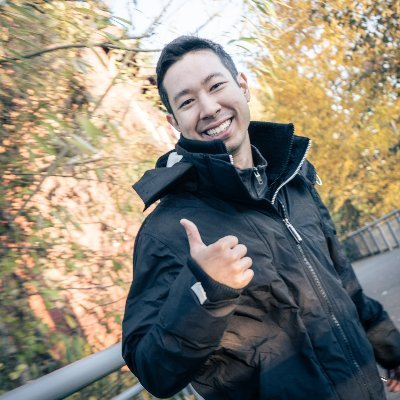
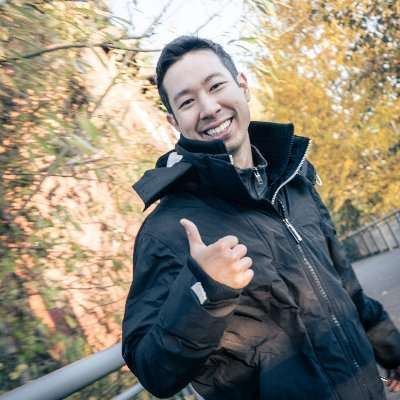
add team bios functionality

diff --git a/app/company/team.tsx b/app/company/team.tsx
@@ -1,40 +1,107 @@
+"use client";
+
+import { useState } from "react";
 import { Section } from "@/components/ui/section";
 import SunbeamBackground from "@/components/ui/sunbeam/sunbeam-bg";
-import Image from "next/image";
+import { TeamMember, TeamMemberType } from "./team-member";
 
-function TeamMember({
-  name,
-  role,
-  image,
-  link,
-  description,
-}: {
-  name: string;
-  role: string;
-  image: string;
-  link: string;
-  description?: string;
-}) {
-  return (
-    <a
-      href={link}
-      className="flex flex-col items-center text-center p-6 bg-primary-foreground/20 backdrop-blur-sm rounded-xs shadow-sm hover:shadow-primary/60 transition-shadow btn-effect-shine"
-    >
-      <Image
-        src={image}
-        alt={name}
-        height={100}
-        width={100}
-        className="w-36 h-36 rounded-full mb-4"
-      />
-      <h2 className="text-2xl font-bold text-primary">{name}</h2>
-      <p>{role}</p>
-      <p className="text-gray-500 text-sm">{description ?? ""}</p>
-    </a>
-  );
-}
+const TeamMembers: TeamMemberType[] = [
+  {
+    name: "Sheldon Hunt",
+    role: "CEO",
+    image: "/team/sheldon.jpg",
+    link: "https://x.com/_MrHunt_",
+    description: "Ex-Head of Cardano Ecosystem",
+    bio: `Sheldon Hunt is the Founder and CEO of Sundial Protocol, former Head of Ecosystem at Emurgo and Canadian diplomat. He brings years of experience in blockchain infrastructure and ecosystem growth, having worked across UTXO-based chains and led initiatives that combine decentralised finance with cross-chain innovation.`,
+  },
+
+  {
+    name: "Michael Yagi",
+    role: "Developer & Ecosystem",
+    image: "/team/michael.jpg",
+    link: "https://x.com/gubguub",
+    description: "Founder of Ikigai Technologies",
+    bio: `Michael Yagi is a technology entrepreneur and creative director focused on bridging
+      advanced infrastructure with engaging user experiences. Drawing on his experience as one
+      of Tableau’s fastest-promoted engineers, he combines deep technical expertise with
+      strategic product vision and team leadership.`,
+  },
+
+  {
+    name: "Yoram Benzvi",
+    role: "Business Development & Partnerships",
+    image: "/team/yoram.png",
+    link: "https://x.com/yorambenzvi",
+    bio: `Yoram Ben Zvi is an entrepreneur with experience in product management and development, particularly in bridging traditional businesses with cutting-edge technologies like blockchain and AI. He is based in the Geneva Metropolitan Area.`,
+  },
+
+  {
+    name: "Sam Delaney",
+    role: "Core Tech Lead",
+    image: "/team/sam.jpg",
+    link: "https://x.com/sde_laney",
+    description: "Founder of Grabbit",
+    bio: `Sam is a design leader and blockchain engineer with years of experience at the forefront of
+      UTxO protocol design and development. He has been integral to projects such as
+      Hydra-Auction, Grabbit, & Ascent Rivals, and authored the CIP-102 standard and early ZK
+      verifiers. Sam has degrees in Computer Science and Linguistics from Trinity Western
+      University.`,
+  },
+
+  {
+    name: "Phil Disarro",
+    role: "Senior Developer",
+    image: "/team/phil.png",
+    link: "https://x.com/phil_uplc",
+    description: "Founder of Anastasia Labs",
+    bio: `Phil Disarro is the Founder and CEO of Anastasia Labs, a research and development firm focused on secure and scalable blockchain infrastructure. He has deep expertise in compiler design, programming language theory, and smart contract security, and has contributed extensively to the Cardano ecosystem.`,
+  },
+
+  {
+    name: "Vic Genin",
+    role: "Protocol Lead",
+    image: "/team/vic.jpeg",
+    link: "https://x.com/DataScientistAI",
+    bio: `Vic Genin is a blockchain architect and data technology expert with experience building scalable, secure systems. He has held senior technical roles at Binance, Cere Network, and GameStop, leading projects in cross-chain interoperability and decentralized infrastructure. Vic combines deep technical expertise with a track record of delivering complex blockchain and gaming projects.`,
+  },
+
+  {
+    name: "Appold Team",
+    role: "Operations & Project Management",
+    image: "/team/appold-logo.svg",
+    link: "https://www.linkedin.com/company/appold/",
+    bio: `Appold is a specialist technology and advisory company focused on the blockchain industry, which incorporates digital
+      assets, blockchain technology, decentralised finance (DeFi), and asset tokenisation. Appold provides end-to-end
+      advisory solutions on digital transformation, blockchain integration, audit, market screening, analysis, and risk
+      management.`,
+  },
+];
 
 export default function Team() {
+  const [members, setMembers] = useState<TeamMemberType[] | null>(TeamMembers);
+
+  // this was supposed to swap the selected member with the clicked member.
+  // not sure why it doesn't but it's kinda accidentally better - keeps things more or less sorted with minimal movement
+  const handleMemberSelect = (member: TeamMemberType) => {
+    const memberIndex = members
+      ? members.findIndex((m) => m.name === member.name)
+      : -1;
+
+    setMembers((prevMembers) => {
+      if (!prevMembers || memberIndex === -1 || memberIndex === 0) {
+        return prevMembers;
+      }
+
+      let newMembers = [...prevMembers];
+      newMembers[memberIndex] = newMembers[0];
+      newMembers[0] = member;
+
+      return newMembers;
+    });
+  };
+
+  let selectedMember: TeamMemberType | null = members ? members[0] : null;
+
   return (
     <SunbeamBackground
       beams={[
@@ -55,71 +122,70 @@ export default function Team() {
         },
       ]}
     >
-      <Section className="py-24">
+      <Section className="py-24 items-center text-center space-y-6">
+        <h1 className="text-4xl font-bold tracking-tighter sm:text-5xl md:text-6xl">
+          Core Team
+        </h1>
         <div className="grid grid-cols-1 lg:grid-cols-3 gap-6">
-          <div className="flex flex-col px-12 lg:pt-24 items-center text-center space-y-4">
-            <h1 className="text-5xl font-bold tracking-tighter sm:text-6xl md:text-7xl">
-              Our Team
-            </h1>
-            <span className="text-foreground/90 md:text-lg">
-              We're working around the dial to bring next-generation DeFi
-              functionality to Bitcoin, Litecoin, Cardano, and Dogecoin, among
-              others.
-            </span>
+          <div className="flex flex-col px-12 items-center text-center space-y-4">
+            {selectedMember ? (
+              <div className="flex flex-col items-center text-center p-8 bg-primary-foreground/30 backdrop-blur-sm rounded-lg shadow-lg border border-primary/20">
+                <img
+                  src={selectedMember.image}
+                  alt={selectedMember.name}
+                  className="w-48 h-48 rounded-full mb-6 border-4 border-primary/20"
+                />
+                <h2 className="text-3xl font-bold text-primary mb-2">
+                  {selectedMember.name}
+                </h2>
+                <p className="text-xl text-muted-foreground mb-4">
+                  {selectedMember.role}
+                </p>
+                {selectedMember.description && (
+                  <p className="text-gray-500 text-base mb-4">
+                    {selectedMember.description}
+                  </p>
+                )}
+                {selectedMember.bio && (
+                  <p className="text-sm text-muted-foreground max-w-sm">
+                    {selectedMember.bio}
+                  </p>
+                )}
+                {selectedMember.link && (
+                  <a
+                    href={selectedMember.link}
+                    target="_blank"
+                    rel="noopener noreferrer"
+                    className="mt-4 text-primary hover:text-primary/80 transition-colors"
+                  >
+                    View Profile →
+                  </a>
+                )}
+              </div>
+            ) : (
+              <div className="flex flex-col items-center justify-center text-center p-8 bg-primary-foreground/10 backdrop-blur-sm rounded-lg border-2 border-dashed border-primary/20 min-h-[400px]">
+                <p className="text-muted-foreground text-lg">
+                  Click on a team member to learn more about them
+                </p>
+              </div>
+            )}
           </div>
           <div className="container grid grid-cols-1 md:grid-cols-2 lg:grid-cols-3 md:col-span-2 gap-6 p-4 md:p-6">
-            <TeamMember
-              name="Sheldon Hunt"
-              role="CEO"
-              image="/team/sheldon.jpg"
-              link="https://x.com/_MrHunt_"
-              description="Ex-Head of Cardano Ecosystem"
-            />
-
-            <TeamMember
-              name="Michael Yagi"
-              role="Developer & Ecosystem"
-              image="/team/michael.png"
-              link="https://x.com/gubguub"
-              description="Founder of Ikigai Technologies"
-            />
-
-            <TeamMember
-              name="Yoram Benzvi"
-              role="Business Development & Partnerships"
-              image="/team/yoram.png"
-              link="https://x.com/yorambenzvi"
-            />
-
-            <TeamMember
-              name="Sam Delaney"
-              role="Senior Developer"
-              image="/team/sam.jpg"
-              link="https://x.com/sde_laney"
-              description="Founder of Grabbit"
-            />
-
-            <TeamMember
-              name="Phil Disarro"
-              role="Senior Developer"
-              image="/team/phil.png"
-              link="https://x.com/uplc_phil"
-              description="Founder of Anastasia Labs"
-            />
-
-            <TeamMember
-              name="Appold Team"
-              role="Operations & Project Management"
-              image="/team/appold-logo.svg"
-              link="https://www.linkedin.com/company/appold/"
-            />
-
-            {/*<TeamMember
-              name="Lewis Harding"
-              role="Investor Relations & Operations"
-              image="/team/lewis.jpg"
-              link="https://x.com/Lewis_Harding13"
-            />*/}
+            {TeamMembers.filter(
+              (member) => member.name !== selectedMember?.name
+            ).map((member) => (
+              <div
+                key={member.name}
+                onClick={() => handleMemberSelect(member)}
+                className={`cursor-pointer transition-all duration-200 ${
+                  selectedMember?.name === member.name
+                    ? "ring-2 ring-primary ring-offset-2 ring-offset-background"
+                    : "hover:scale-105"
+                }`}
+              >
+                <TeamMember {...member} />
+              </div>
+            ))}
           </div>
         </div>
       </Section>

diff --git a/app/company/team-member.tsx b/app/company/team-member.tsx
@@ -1,0 +1,48 @@
+import { ExternalLink, Link } from "lucide-react";
+import Image from "next/image";
+
+export type TeamMemberType = {
+  name: string;
+  role: string;
+  image: string;
+  link: string;
+  description?: string;
+  bio?: string;
+};
+
+export function TeamMember({
+  name,
+  role,
+  image,
+  link,
+  description,
+  bio,
+}: TeamMemberType) {
+  return (
+    <div className="flex flex-col items-center text-center p-6 bg-primary-foreground/20 backdrop-blur-sm rounded-xs shadow-sm hover:shadow-primary/60 transition-shadow btn-effect-shine">
+      <Image
+        src={image}
+        alt={name}
+        height={100}
+        width={100}
+        className="w-36 h-36 rounded-full mb-4"
+      />
+      <h2 className="text-2xl font-bold text-primary">
+        {
+          <a
+            href={link}
+            target="_blank"
+            rel="noopener noreferrer"
+            className="flex"
+          >
+            {name} <ExternalLink className="ml-1 h-4 w-4" />
+          </a>
+        }
+      </h2>
+      <p>{role}</p>
+      <p className="text-gray-500 text-sm">{description ?? ""}</p>
+    </div>
+  );
+}
+
+export default TeamMember;
